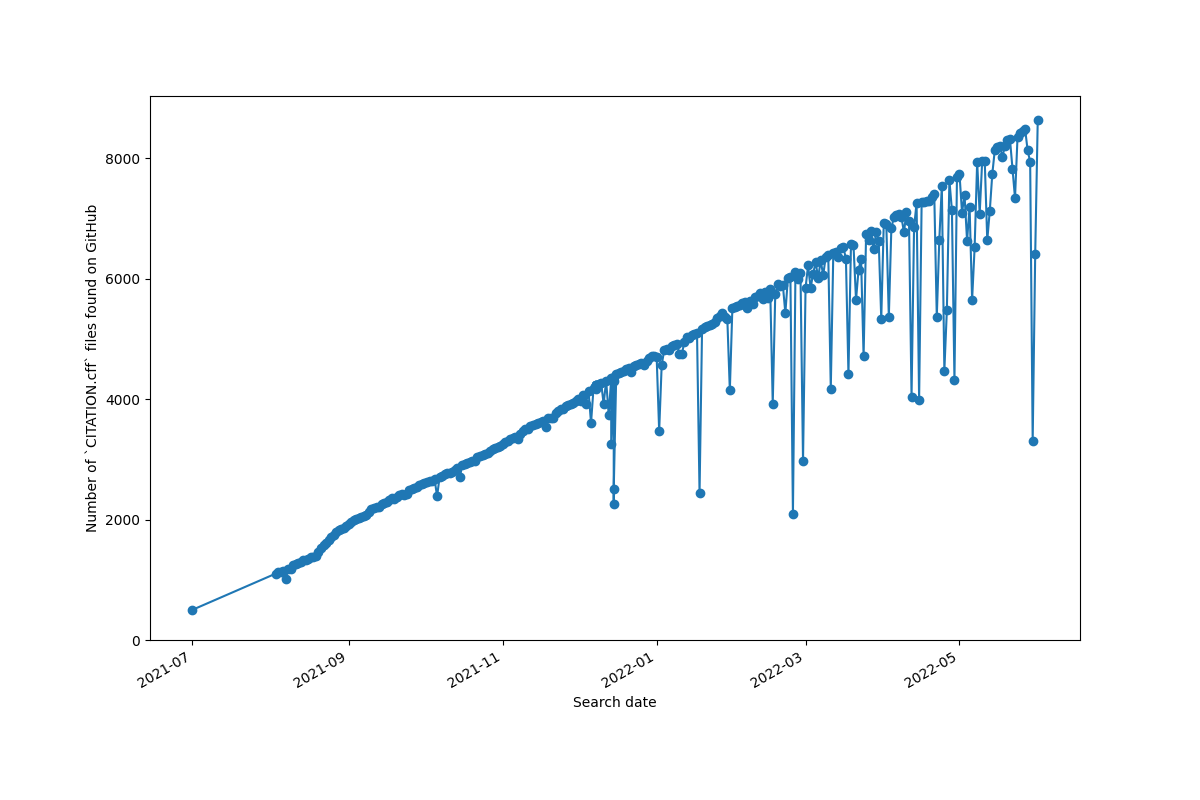
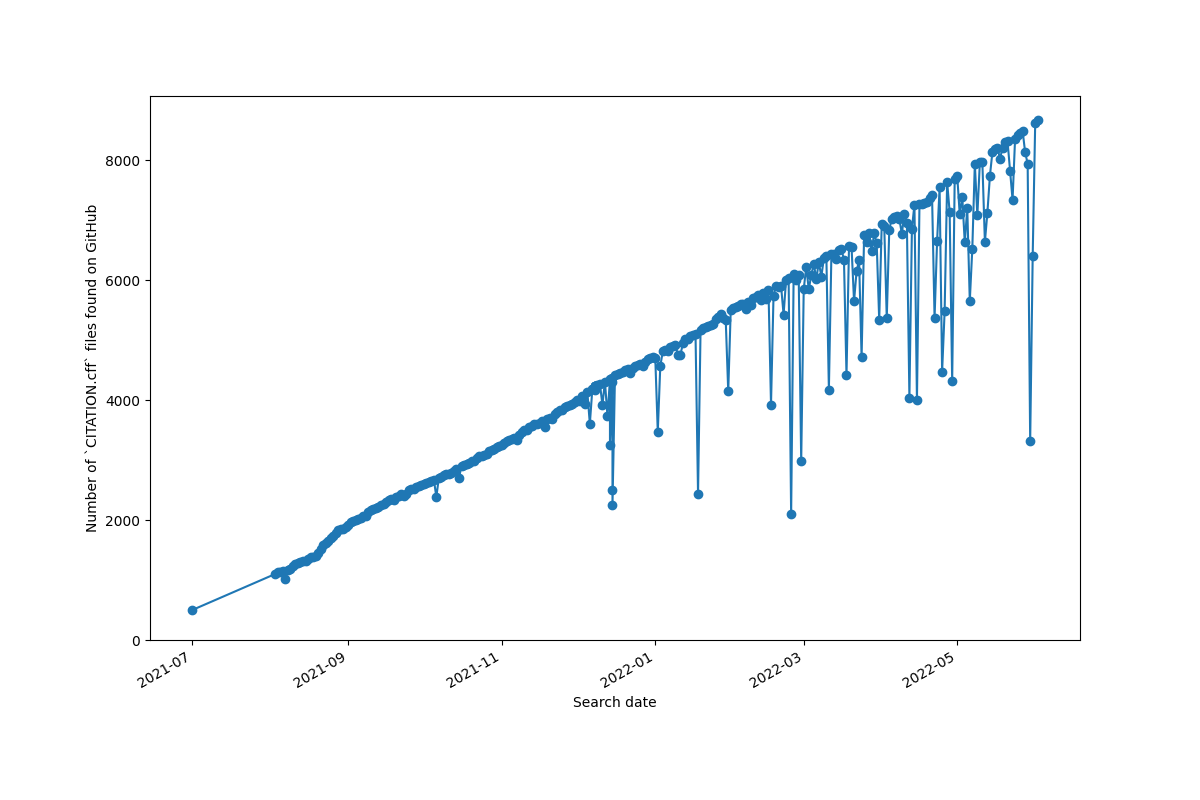
Update data

diff --git a/README.md b/README.md
@@ -7,7 +7,7 @@ SPDX-License-Identifier: CC-BY-4.0
 
 Tracks `CITATION.cff` files across public repositories on GitHub.
 
-## Current count: 8625
+## Current count: 8659
 
 ![A graph showing a timeline of file counts for CITATION.cff files across GitHub retrieved via GitHub search API.](cff_counts.png)
 
